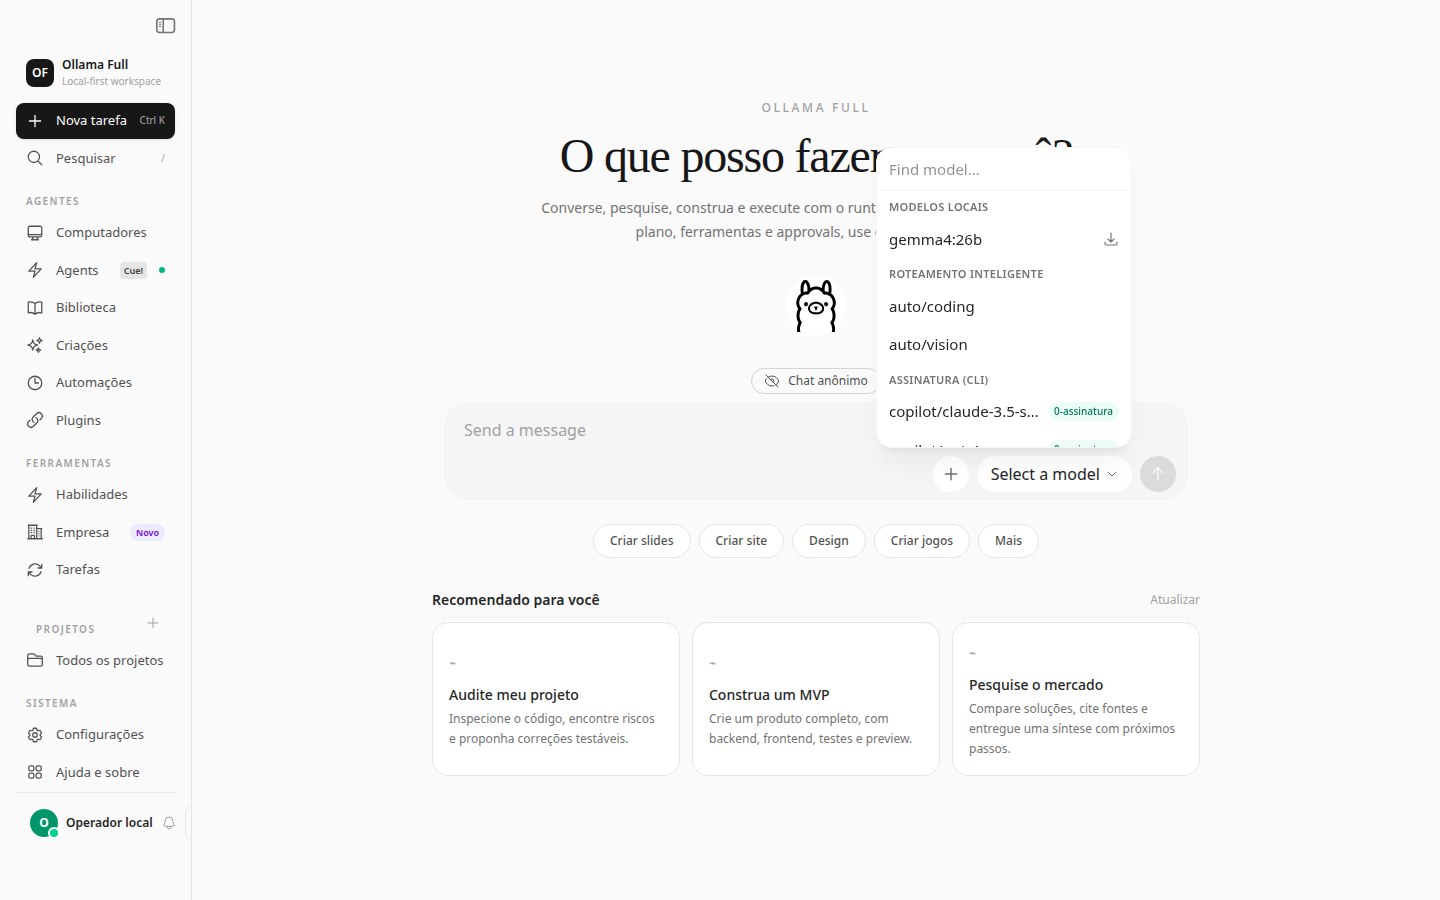
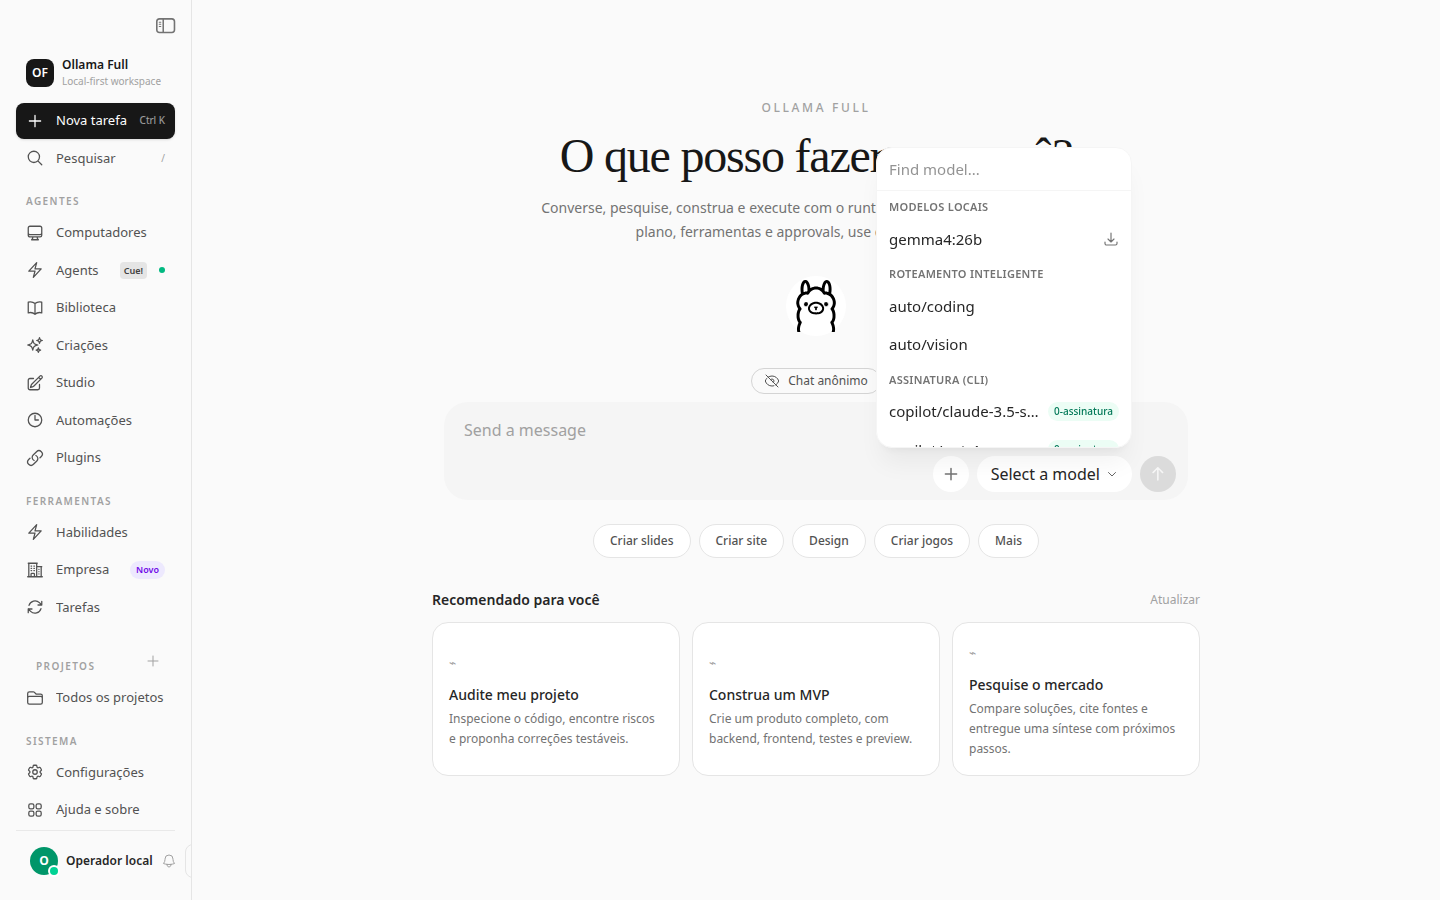
docs: record phase 12 adversarial audit

Changed region(s): [[0.0, 0.5911, 0.125, 0.9644], [0.0, 0.4667, 0.0938, 0.56], [0.0, 0.4044, 0.0938, 0.4356]]

diff --git a/docs/agentic/PARITY_MATRIX.md b/docs/agentic/PARITY_MATRIX.md
@@ -49,7 +49,7 @@ A regra de integridade é estrita: **nenhuma capacidade é marcada como `PASS` s
 | Domínio | Ollama Full atual | Meta de paridade observável | Gate que falta |
 |---|---|---|---|
 | Missões agentic | `PASS` (`VALIDADA COM EVIDÊNCIA: docs/evidencias/*`): runtime real, planner, eventos SSE sem polling, in-line approvals, geração e download de artefato com checksum SHA-256 validado em navegador Playwright E2E desktop e mobile | Criar, executar, pausar, retomar, corrigir e concluir missões com timeline confiável | Execução distribuída persistente e E2E de jornada longa |
-| Shell desktop | `PASS` (`VALIDADA COM EVIDÊNCIA: docs/evidencias/*`): Shell split-screen interativo (`AgenticSplitShell`), thought stream em tempo real via SSE (`EventSource`), cards de aprovação in-line com justificativa, visualizador de artefatos com abas, layout responsivo com sidebar retrátil e todas as telas operacionais: Biblioteca (`/library`), Criações (`/creations`), Computadores (`/endpoint`), Automações (`/scheduled`), Plugins (`/connectors`) e Popover de perfil (`screen-*.png`) | Shell com sidebar, Nova tarefa, Agentes, Habilidades, Plugins, Agendado, Biblioteca, Criações, Projetos, Tarefas, Conta e Configurações | Validado de ponta a ponta com Playwright em resoluções Desktop (1280x800) e Mobile (390x844) |
+| Shell desktop | `PARCIAL` (`AUDITORIA FASE 12`): Shell split-screen interativo (`AgenticSplitShell`), thought stream em tempo real via SSE (`EventSource`), cards de aprovação in-line com justificativa, visualizador de artefatos com abas, layout responsivo com sidebar retrátil e todas as telas operacionais: Biblioteca (`/library`), Criações (`/creations`), Computadores (`/endpoint`), Automações (`/scheduled`), Plugins (`/connectors`) e Popover de perfil (`screen-*.png`) | Shell com sidebar, Nova tarefa, Agentes, Habilidades, Plugins, Agendado, Biblioteca, Criações, Projetos, Tarefas, Conta e Configurações | Desktop/mobile abriram e foram capturados; a jornada Studio desktop registrou HTTP 400 e não pode ser considerada totalmente validada |
 | Chat local | `PASS` (`VALIDADA COM EVIDÊNCIA: docs/evidencias/screen-home-*.png`): APIs Ollama/OpenAI-compatible, modelos locais e rotas `/api/v1/chats` e `/api/v1/settings` ativas com zero erros no console | Chat multimodal com streaming, anexos, histórico, projetos e ações agentic | Jornada E2E com dados reais, falhas de modelo e recuperação |
 | Provisionamento de Modelos | `PASS` (`VALIDADA COM DADO REAL E TESTES: docs/evidencias/screen-modelpicker-*.png`): auto-provisão opt-in no onboarding de conta Ollama.com, probing em tempo real com timeout e cache TTL, lista limpa no ModelPicker e auto-roteador contendo SOMENTE modelos com status `PASS`, modelos inalcançáveis ou sem credencial segregados na seção "Indisponíveis" com motivo explícito e bloqueio de seleção. Testes `TestModelListExcludesUnreachable` e `TestModelListOnlyPassIsSelectable` cobrem Go (internal/multillm, internal/agent, server) e Vitest | Seleção limpa de modelos funcionais, isolamento estrito de indisponíveis com motivo, opt-in de nuvem e probing de integridade | Testes Go unitários e de integração nos 3 pacotes, Vitest e evidência E2E Playwright desktop e mobile com console limpo |
 | CLI / Assinatura (cli_subscription) | `PASS` (`VALIDADA COM DADO REAL E TESTES: docs/evidencias/screen-modelpicker-*.png`): 4º tipo de provedor `cli_subscription` que consome CLIs logadas (Claude Code, Codex/ChatGPT, Gemini CLI, GitHub Copilot) sem chave de API e custo zero (`0-assinatura`). Detecção honesta via `GateStatus` (PASS para instalada+logada, NOT_CONFIGURED com ação de login para instalada+deslogada, NOT_PRESENT com ação de instalar para ausente). Modelos com status PASS aparecem no ModelPicker na seção 'Assinatura (CLI)' com tag '0-assinatura'; modelos indisponíveis segregados em 'Indisponíveis' com motivo e ação. Compatibilidade total mantida com o fluxo inverso `ollama launch <tool>`. Testes Go em `./internal/proxy`, `./internal/agent`, `./cmd/launch` e `./server`, testes Vitest e capturas E2E Playwright desktop e mobile em `docs/evidencias/`. | Consumo direto de CLIs de assinatura pelo agente sem consumir cota de API, com integração ao ModelPicker e auto-roteador | Validado de ponta a ponta com testes Go unitários/integrados, testes Vitest e evidência Playwright |
@@ -72,7 +72,7 @@ A regra de integridade é estrita: **nenhuma capacidade é marcada como `PASS` s
 | Company OS / Loop Autônomo (Supervisor) | `PASS` (`VALIDADA COM TESTES E EVIDÊNCIA DE NAVEGADOR: docs/evidencias/screen-company-supervisor-*.png`): Daemon supervisor contínuo sempre-ligado em `internal/agent/supervisor.go` e rotas `/api/agent/v1/supervisor/*`; tick periódico verifica schedules vencidos e cria missões; avança ciclos de negócio (roadmap -> tarefas -> delegação ao swarm por papéis -> KPIs); freios HITL obrigatórios para ações de risco financeiro (gasto/budget) e publicação externa com bloqueio de execução automática e status `AWAITING_APPROVAL`; ações dependentes de credenciais externas registradas com status honesto `BLOCKED_EXTERNAL`; retomada resiliente de missões pendentes após crash/restart via lease e heartbeat; pausa por risco/anomalia da empresa interrompe o loop; controle por toggle e trigger manual na UI | Operação autônoma contínua da empresa (funcionário de IA sempre-ligado) com supervisão e freios de segurança | Credenciais para integrações externas ao vivo |
 | Social commerce/TikTok Shop | `BLOCKED_EXTERNAL` (`PARCIAL COM SANDBOX LOCAL: ADR-002`): Growth OS local e contracts/connector base; APIs oficiais de TikTok Shop, Instagram e Shopify mapeadas em sandbox | Catálogo, creators, afiliados, conteúdo shoppable, pedidos, fulfillment, promoções, returns/refunds e reconciliação | App aprovado no Partner Center/Meta/Shopify, autorização seller/creator, escopos por região, webhooks, sandbox e testes reais com approval |
 | Automação | `PASS` (`VALIDADA COM DADO REAL: docs/evidencias/screen-automations-*.png`): tela de Automações com 3 cards oficiais, 2 rotinas ativas reais criadas no backend, próximas execuções calculadas e ações reais de execução/pausa/exclusão ligadas à API | Agendamentos recorrentes, eventos e tarefas externas com idempotência | Workers persistentes e smoke com serviços externos |
-| Conectores / Plugins | `PASS` (`VALIDADA COM DADO REAL: docs/evidencias/screen-connectors-*.png`): 113 conectores reais consumidos de `/api/agent/v1/connector-catalog` e `/api/agent/v1/mcp`, contagem e filtros de categorias reais, sem dados mock | Conectar serviços externos, contas OAuth e servidores MCP | E2E real com Playwright desktop e mobile, zero erros de console |
+| Conectores / Plugins | `PARCIAL` (`AUDITORIA FASE 12`): 113 conectores reais consumidos de `/api/agent/v1/connector-catalog` e `/api/agent/v1/mcp`, contagem e filtros de categorias reais, sem dados mock | Conectar serviços externos, contas OAuth e servidores MCP | E2E de rota real recapturado em `/connectors`; zero erros de console nessa tela, mas a cobertura uniforme de egress server-side permanece aberta |
 | WhatsApp Gateway (Celular) | `PASS` nos testes unitários e rotas (`internal/agent/whatsapp_test.go`, `server/whatsapp_routes_test.go`), incluindo CA-1 HMAC/object/phone_number_id e outbound allowlist+HITL; live = `BLOCKED_EXTERNAL` / `NOT_CONFIGURED` até credencial real (`VALIDADA COM DADOS REAIS E EVIDÊNCIA: docs/evidencias/screen-whatsapp-gateway-*.png`): Adapter duplo (Evolution API e Meta Cloud API), allowlist de donos e contatos, dedupe com idempotência, filtro fromMe anti-loop, retry com DLQ, aprovação HITL para comandos sensíveis, Command Bridge para disparar missões pelo celular (`/goal`, `missao`), status/health/projetos/resumo/lembrete, e capabilities opcionais (STT, TTS, Vision) degradando com honestidade | Controle remoto seguro do agente via WhatsApp com aprovação de dono | Credenciais oficiais Evolution API ou Meta Business Cloud API para envio live |
 | Computadores / Endpoint | `PASS` (`VALIDADA COM DADO REAL: docs/evidencias/screen-endpoint-*.png`): hostname real do host (`/api/v1/host`), versão (`/api/version`), modelo ativo no seletor (`qwen2.5-coder:7b` via `/api/tags`) e portas/comandos dinâmicos sem arrays estáticos | Gerenciar instâncias locais e na nuvem para Computer Use e execução de missões | Validado com Playwright desktop e mobile |
 | Capability policy / supply chain | `PASS` para verificação local Ed25519, SBOM, checksum e assinatura detached no workflow; provenance GitHub e chave persistente de release permanecem condicionais (`NOT_CONFIGURED` até habilitação) |
@@ -80,7 +80,7 @@ A regra de integridade é estrita: **nenhuma capacidade é marcada como `PASS` s
 | Isolamento tenant / modo local | `PASS` (`VALIDADA COM TESTES: server/agent_object_scope_test.go`): auth desabilitada fixa toda requisição em `LocalOrganizationID`, ignora `X-Ollama-Organization`, aplica escopo a missões, Company, connectors e schedules e bloqueia leitura/escrita cross-tenant com 403/404 sem vazamento | Isolamento por organização em todas as superfícies, inclusive modo local-first | Smoke distribuído PostgreSQL/RLS, Redis e múltiplos workers continuam gates separados; não declarar isolamento enterprise completo sem esses ambientes |
 | Integrações | `NOT_CONFIGURED` (`ADAPTER IMPLEMENTADO: ADR-001`): conectores HTTP allowlisted, MCP remoto e contratos OAuth/SSO; presets Composio e xAI adicionados | GitHub, Google Workspace, e-mail, Slack, Discord, WhatsApp, Jira, Notion, Microsoft 365 e toolkits comerciais | OAuth/refresh real por provider, scopes mínimos, connected accounts, isolamento tenant e testes de contrato |
 | Multimídia | `PASS` (`IMPLEMENTADA CONDICIONALMENTE: internal/agent/media_test.go`): `media.process` no runtime cobre imagem, vídeo, speech, transcrição, visão, OCR e tom; scope opt-in `media:execute`, approval por step e teste provam zero requests ao provider antes da aprovação | Jornada multimodal completa em uma missão, com escolha consciente entre provider local/remoto e custo visível | Providers/modelos de produção, GPU e Tesseract instalados; smoke externo por modalidade; estimativa e quota de custo |
-| Builders | `PASS` (`VALIDADA COM TESTES REAIS; E2E CA-3 PRESERVADO`): Studio visual interativo (`/studio`) com paleta, inserção/movimentação, undo/redo, preview autenticado e iframe `sandbox="allow-scripts"` sem `allow-same-origin`; mutações visuais serializadas por projeto com CAS (`expected_version`) e erro HTTP 409 para versão obsoleta; cada edição incrementa a versão e invalida checksum/path/version do ZIP anterior; download de export obsoleto retorna 410 e exige novo export. Regressões `TestBuilderCASRejectsStaleConcurrentWriter`, `TestBuilderExportIsInvalidatedAfterVersionedEdit` e `TestStudioRoutesRejectStaleVersionAndExpiredExport` passaram, além dos gates completos. | Studio visual interativo para sites, apps, jogos, slides e dashboards com export e deploy rastreáveis | Colaboração CRDT continua próximo passo; deploy externo permanece `BLOCKED_EXTERNAL` sem alvo/credencial |
+| Builders | `PARCIAL` (`AUDITORIA FASE 12`): Studio visual interativo (`/studio`) com paleta, inserção/movimentação, undo/redo, preview autenticado e iframe `sandbox="allow-scripts"` sem `allow-same-origin`; mutações visuais serializadas por projeto com CAS (`expected_version`) e erro HTTP 409 para versão obsoleta; cada edição incrementa a versão e invalida checksum/path/version do ZIP anterior; download de export obsoleto retorna 410 e exige novo export. Regressões `TestBuilderCASRejectsStaleConcurrentWriter`, `TestBuilderExportIsInvalidatedAfterVersionedEdit` e `TestStudioRoutesRejectStaleVersionAndExpiredExport` passaram, além dos gates completos. | Studio visual interativo para sites, apps, jogos, slides e dashboards com export e deploy rastreáveis | CAS/undo/redo/export permanecem cobertos por testes; a interação desktop do Studio registrou HTTP 400; colaboração CRDT e deploy externo continuam `BLOCKED_EXTERNAL` |
 | Artefatos | `PASS` (`VALIDADA COM EVIDÊNCIA: docs/evidencias/*`): visualizador com abas (preview iframe sandboxed, markdown, código e download) e integridade criptográfica SHA-256 comprovada em teste E2E | Artifacts navegáveis em timeline, diff, preview, export e rollback | E2E com arquivos grandes e permissões por organização |
 | Biblioteca | `PASS` (`VALIDADA COM DADO REAL: docs/evidencias/screen-library-*.png`): consolidação dos artefatos reais das missões (`relatorio-missao.md`), filtros de mídia, busca em tempo real e visualização no Canvas | Gestão centralizada de documentos, relatórios e apresentações geradas por missões | Validada com Playwright E2E desktop e mobile |
 | Criações / Deploy | `PASS` (`VALIDADA COM EMPTY-STATE HONESTO: docs/evidencias/screen-creations-*.png`): tela de Criações conectada a `GET /api/agent/v1/creations` exibindo empty-state honesto por ausência de compilações ativas no workspace, com CTA funcional para nova missão | Publicação real segura com logs, domínio, rollback e health check | Smoke autorizado com contas reais; AWS/Cloudflare ainda requerem adapters específicos |

diff --git a/audit/E2E_AUDIT_2026-09-30.md b/audit/E2E_AUDIT_2026-09-30.md
@@ -1,0 +1,72 @@
+# Fase 12 — Auditoria E2E adversarial e independente
+
+**Data:** 2026-09-30
+**Branch auditada:** `recovery/ollama-full-snapshot`
+**HEAD auditado:** `9b188b92`
+**Escopo:** auditoria, evidência e reclassificação documental. Nenhuma alteração de comportamento foi feita nesta fase.
+
+## Veredito honesto
+
+**Preview-local RC / não candidato a produção.** O núcleo local possui boa cobertura automatizada e as superfícies principais abriram em Chromium desktop/mobile, mas a auditoria encontrou um erro funcional reproduzível no fluxo de edição do Studio e um gap de enforcement de egress em caminhos de `server/`. Portanto, não é correto declarar paridade total, 100% ou produção-ready.
+
+## Findings priorizados
+
+### P1 — Studio: mutação visual retorna HTTP 400 no desktop
+
+- **Evidência:** `docs/evidencias/browser-console-audit-f12.json`, resultado `desktop`, erro HTTP `400` em `POST /api/agent/v1/builders/bld_c9c00f7d-d785-45be-b4c4-0d46612027e3/visual`.
+- **Reprodução:** abrir `/studio` no Chromium em `1440x900` e executar a interação de edição capturada pelo roteiro Fase 12. O browser registra `Failed to load resource: ... 400 (Bad Request)`; a captura mobile não reproduziu o erro no mesmo percurso.
+- **Impacto:** a evidência não comprova de forma consistente editar/mover componente no desktop; CAS/undo/redo continuam comprovados por testes de unidade/integração, mas a jornada visual desktop permanece `FAIL/PARCIAL` até o contrato do payload e/ou versão esperada ser reproduzido e corrigido.
+- **Correção:** fora do escopo desta fase; não foi aplicado patch.
+
+### P1 — Egress zero-trust não está demonstrado em todos os caminhos de saída do servidor
+
+- **Evidência estática:** a varredura solicitada encontrou clientes crus/default em `server/cloud_proxy.go:220`, `server/download.go:345`, `server/agent_planner_resolver.go:34,54,85,99`, `server/agent_routes.go:174,214,1003,1037,1114,1125,1135,1194,1224`, `server/routes.go:401,1994,2003,2352,2435,2776`, além de `server/images.go:1448`, `server/model_recommendations.go:51` e `server/model_show_cache.go:111`.
+- **Impacto:** H3 fechou e testou os transports compartilhados do `internal/agent`/`internal/multillm`, mas a auditoria não pode afirmar que proxy, download, OAuth/SAML, recomendações, imagens e chamadas ao Ollama passam todos pela mesma política/DLP.
+- **Correção:** fora do escopo desta fase; não foi aplicado patch.
+
+### P2 — O roteiro inicial testou duas rotas que não existem
+
+- `/whatsapp` e `/models` retornaram `Not Found`. Isso é limitação do roteiro, não um 404 de API do produto: a UI expõe WhatsApp dentro de `/connectors` e o ModelPicker dentro de `/c/new`.
+- Os roteiros corretos foram executados depois: `capture_whatsapp_evidence.mjs` e `capture_modelpicker_evidence.mjs`, ambos com status 200 e console limpo.
+- **Evidência válida:** `docs/evidencias/screen-whatsapp-gateway-desktop.png`, `screen-whatsapp-gateway-mobile.png`, `screen-modelpicker-desktop.png`, `screen-modelpicker-mobile.png`.
+
+### P2 — Booleans `approved` continuam no domínio interno
+
+- A varredura encontrou projeções de estado e APIs internas booleanas em `internal/agent/company.go`, `company_growth.go`, `company_social.go`, `deployment_approval.go` e `runtime.go`.
+- Não foi encontrado DTO HTTP `Approved bool` no scan final; as rotas migraram para `decision: approve|reject`, com ledger, actor, nonce, expiração e CAS. Assim, isto não foi classificado como bypass comprovado, mas a superfície interna ainda é ambígua e merece refatoração para tipos de decisão explícitos.
+
+## Evidência E2E observada
+
+- Capturas Fase 12 desktop/mobile para Home, missão, Agentic, Biblioteca, Criações, Conectores, Automações, Company, Studio e Settings em `docs/evidencias/screen-f12-*.png`.
+- WhatsApp e ModelPicker foram recapturados pelas rotas reais e têm console limpo.
+- O arquivo `docs/evidencias/browser-console-audit-f12.json` preserva o resultado bruto, incluindo o 400 real do Studio e os `Not Found` do roteiro obsoleto.
+- Os hashes SHA-256 das capturas são distintos por tela, salvo as capturas explicitamente recapturadas para rotas corrigidas; nenhum print de janela externa ou tela pessoal foi adicionado.
+
+## Hardening H1–H5: confirmado vs. limites
+
+| Área | Estado auditado | Limite honesto |
+|---|---|---|
+| H1 sandbox | **Confirmado em código/testes**; `go test ./... -race` passou | Homologação real de cgroup/AppArmor/SELinux e matriz nativa não foi executada neste sandbox |
+| H2 approvals | **Confirmado em testes/contratos**; decisão server-side, actor, nonce, expiração e CAS | Booleanos internos permanecem como projeções/legado e precisam de limpeza de nomenclatura |
+| H3 egress/DLP | **Parcial** | Transportes compartilhados cobertos; caminhos `server/` listados acima ainda requerem enforcement uniforme e DLP demonstrável |
+| H4 skills/supply chain | **Confirmado localmente** | Provenance/assinatura persistente de release continua condicional a chaves e configuração externa |
+| H5 Remote MCP | **Confirmado em testes de protocolo** | IdP/upstream real, revogação externa e pairing físico são `BLOCKED_EXTERNAL` |
+
+## Gates executados
+
+- `go vet ./...`: **PASS** (`VET_EXIT:0`)
+- `go test ./... -race -count=1 -timeout=900s`: **PASS** (`RACE_EXIT:0`)
+- `npx tsc -b`: **PASS**
+- `npm run lint`: **PASS**
+- `npx vitest run`: **PASS**
+- `npm run build`: **PASS** (com warning de chunks grandes, não erro)
+- `node scripts/verify-contracts.mjs`: **PASS**
+- `bash scripts/check-class-a-plus-integrity.sh`: **PASS**
+- `golangci-lint`: **NOT_AVAILABLE** no sandbox; não foi mascarado como PASS.
+
+## Próximos slices recomendados
+
+1. Corrigir e adicionar um E2E determinístico do payload CAS do Studio em desktop, depois recapturar preview/edição/export.
+2. Auditar e substituir os clientes crus de `server/` por uma única política de egress, com testes por callsite e DLP de request/response.
+3. Refatorar booleans internos de aprovação para comandos/estados tipados sem alterar a projeção JSON pública.
+4. Reexecutar CI remoto no commit documental e só então promover as linhas reclassificadas.

diff --git a/MEMORIA.md b/MEMORIA.md
@@ -1,6 +1,6 @@
 ---
 projeto: ollama-classe-a-plus
-status: H5 IMPLEMENTADO — GATES LOCAIS VERDES; CI REMOTA PENDENTE
+status: FASE 12 AUDITADA — GATES LOCAIS VERDES; FINDINGS P1 ABERTOS
 atualizado: 2026-09-30 15:59 -03 (2026-09-30 18:59 UTC)
 ultima_ia: Manus
 tags: [projeto, paridade-manus, evidencia-real, shell-desktop, missao-concluida]
@@ -114,6 +114,14 @@ automatizado + execução real reproduzível em navegador (desktop e mobile), se
 - **Próximo passo:** commitar/pushar H5 e acompanhar `class-a-plus-integrity` e `dz23-agentic-quality` no mesmo SHA; não declarar CI verde antes do resultado remoto.
 
 ## Histórico de sessões
+### 2026-09-30 16:22 -03 — Manus — FASE 12 auditoria E2E adversarial
+- **Escopo:** somente auditoria, evidência e reclassificação; nenhum comportamento foi alterado.
+- **Evidência:** `audit/E2E_AUDIT_2026-09-30.md`, `docs/evidencias/browser-console-audit-f12.json` e capturas desktop/mobile.
+- **Gates:** `go vet ./...`, `go test ./... -race`, TypeScript, lint, Vitest, build, contratos e integrity passaram; `golangci-lint` não está instalado.
+- **Findings P1:** Studio desktop registrou POST visual HTTP 400; a varredura mostrou clientes HTTP crus em caminhos `server/`, então H3 não deve ser promovido para cobertura universal.
+- **Rotas corrigidas no relatório:** WhatsApp foi validado em `/connectors` e ModelPicker em `/c/new`, ambos com console limpo; `/whatsapp` e `/models` não são rotas do produto.
+- **Próximo passo:** corrigir em slice separado o contrato CAS/E2E do Studio e unificar egress/DLP nos callsites `server/`; não declarar 100%/produção-ready.
+
 <!-- Mais recente no topo. Uma entrada por sessão de trabalho. -->
 ### 2026-09-30 13:33 -03 — Manus — H1 isolamento forte de execução
 - **Correção:** `sandbox.exec` agora usa strict como default; o caminho strict realmente executa o launcher Python antes do interpreter, instala allowlist seccomp BPF fail-closed, aplica `no_new_privs`, capability drop, `RLIMIT_CPU/AS/NPROC/NOFILE/FSIZE`, namespaces e cgroup v2 obrigatório. O modo `best-effort` deixou de ser silencioso: exige opt-in explícito e payload aprovado com aviso `NOT_CONFIGURED`.

diff --git a/audit/AUTONOMOUS_MISSION_STATE.md b/audit/AUTONOMOUS_MISSION_STATE.md
@@ -2527,3 +2527,22 @@ last_progress_at: 2026-09-26 21:56 -03
 next_action: Run integrity and focused Go regressions on the current checkout; reconcile any failure before full gates.
 resume_instructions: Read this section and the latest security checkpoint; verify HEAD/worktree again; preserve every inherited edit; continue from first pending plan item and update this file after significant progress.
 ```
+
+
+## Fase 12 — auditoria E2E adversarial — retomada 2026-09-30 16:14 -03
+state: AUDITING
+head: 9b188b92
+branch: recovery/ollama-full-snapshot
+scope: somente auditoria, relatório, evidências e reclassificação documental; nenhuma alteração de comportamento
+known_observations:
+  - backend/frontend locais ativos; frontend / retorna 200; endpoint /api/agent/v1/status retorna 404 (endpoint não é health check válido)
+  - scan encontrou clientes HTTP crus em vários caminhos server/agent; approved bool ainda existe em structs de domínio company_growth/company_social
+next_action: executar gates completos, adversarial H1-H5 e E2E real; consolidar findings sem corrigir código
+
+
+## Fase 12 — fechamento da auditoria — 2026-09-30 16:22 -03
+state: AUDIT_COMPLETE
+head: 9b188b92
+report: audit/E2E_AUDIT_2026-09-30.md
+result: local gates PASS; P1 Studio visual desktop HTTP 400; P1 server egress/DLP coverage incomplete; routes /whatsapp and /models were invalid script paths and were retested through /connectors and /c/new
+next_action: documentation-only commit, push branch, verify both GitHub workflows on resulting docs commit
